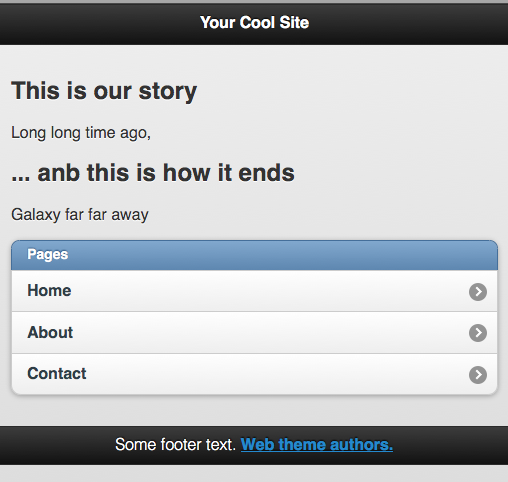
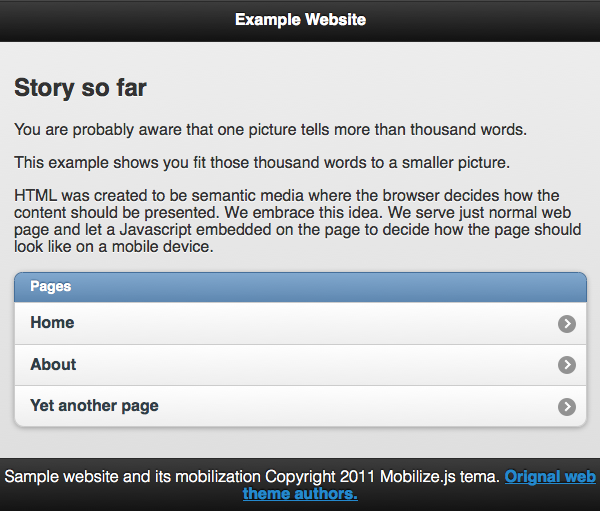
Updating intro and sample integration

Changed region(s): [[0.0, 0.1556, 1.0, 0.8402], [0.0, 0.8714, 1.0, 1.0], [0.0, 0.0, 1.0, 0.0934]]

diff --git a/integrations/example/sample.html b/integrations/example/sample.html
@@ -2,7 +2,7 @@
 <html lang="en">
     <head>
 
-        <title>Example site</title>
+        <title>Example web site</title>
         <link rel="stylesheet" href="styles.css" type="text/css" media="screen" />
     
 	
@@ -25,12 +25,12 @@
 			}            
         </script>
     	
-		<script src="http://localhost:8080/js/mobilize.core.min.js"></script>
+		<script src="http://cdn.mobilizejs.com/releases/0.1/js/mobilize.core.min.js"></script>
 		
         <div id="wrapper">
             <!-- #wrapper -->
             <header>
-                <!-- header --><h1><a href="#">Your Cool Site</a></h1>
+                <!-- header --><h1><a href="#">Example Website </a></h1>
             </header><!-- end of header -->
 
 			<nav>
@@ -47,7 +47,7 @@
 
 
                         <li>
-                            <a href="/contact">Contact</a>
+                            <a href="/contact">Yet another page</a>
                         </li>
 
 
@@ -61,10 +61,18 @@
                 <section id="container">
                     <!-- #container -->
                     <section id="content">
-                            <h2>This is our story</h2>
-							<p>Long long time ago,</p>
-							<h2>... anb this is how it ends</h2>
-							<p>Galaxy far far away</p>							
+                            <h2>Story so far</h2>
+							<p>You are probably aware that one picture tells
+							more than thousand words.</p>
+							<p>This example shows you fit those thousand 
+							words to a smaller picture.</p>		
+							<p>
+								HTML was created to be semantic media where the
+								browser decides how the content should be presented.
+								We embrace this idea. We serve just normal
+								web page and let a Javascript embedded on the page 
+								to decide how the page should look like on a mobile device.			
+							</p>					
                     </section>
                     <!-- end of #content -->
                 </section>
@@ -89,7 +97,8 @@
             <!-- end of #main content and sidebar-->
             <footer>
                 <section id="footer-area">
-                    Some footer text. <a href="http://freehtml5templates.com/">Web theme authors.</a>
+                    Sample website and its mobilization Copyright 2011 Mobilize.js tema. 
+					<a href="http://freehtml5templates.com/">Orignal web theme authors.</a>
                 </section>
                 <!-- end of #footer-area -->
             </footer>

diff --git a/docs/manual/source/introduction.rst b/docs/manual/source/introduction.rst
@@ -4,46 +4,54 @@
 
 .. contents :: :local:
 
-Preface
---------------
+About
+-----
 
-This is an all audience introduction is for mobilize.js.
+Mobilize.js transforms websites
+to mobile sites with Javascript: 
+it is easy to integrate with any system,
+looks good and uses technologies familiar for
+web developers. 
 
-mobilize.js is a modern HTML5 solution to mobilize websites.
-mobilize.js can be used with any web site, as it is complete
-front end solution based on Javascript. In the basic use
-you only need to include one <script> tag on your website
-to mobilize it.
+The revolutionary idea behind Mobilize.js is that
+it pushes difficult content presentation choices to a web browser
+instead trying to figure them out on a server.
+This is embracing of the original philosophy of HTML mark-up language:
+the browser knows best how the page should look like.
+With Mobilize.js we serve a normal web page 
+and let an embedded Javascript file  
+decide should the page be mobilized.
 
-Architecture
--------------
-
-mobilize.js builds on the top of popular jQuery and jQuery Mobile Javascript frameworks.
-In the diagram below the relationship between mobilize.js and the frameworks is explained.
-
-.. image:: images/mobilizejs/Slide1.png
+Mobilize.js will do the same for internet mobilization 
+what Google Maps did for map services.
 
 Benefits
 --------------------------------------------
 
-The revolutionary idea behind mobilize.js is that
-it pushes most of difficult rendering choices to the mobile client itself.
-After all, this is how HTML was designed to be work. Modern phones
-are smart enough to decide how the content to should be displayed the user.
+Modern mobile devices
+are smart enough to decide what is the best way to display
+the content for their users.
 
-This makes mobilize.js simple and easy to integrate to **any** backend.
-It is the most developer friendly mobilization solution out there.
+The client orientation and lack of complex server-side dependencies
+makes Mobilize.js simple and easy to integrate to **any** web system.
+You need only to add one <script> tag; it works even on static HTML files.
+You deploy it easily and tap the potential of quickly growing mobile internet.
+Mobilize.js won't stop you updating your server.
 
-You do not need to install any difficult components or libraries on
-server side. mobilize.js is written in Javascript and jQuery - both
-which are ubiquoes technologies in HTML5 era and familiar to every 
-front end developer.
+Mobilize.js is written in Javascript and jQuery - both
+which are ubiquitous technologies for HTML5 developers. 
+Mobilize.js is the most developer friendly 
+mobilization solution out there. You learn it easily, 
+getting more done in less time.
 
 How it works
 --------------
 
 mobilize.js <script> tags are inserted on your HTML source code
-like with any other Javascript library. 
+like with any other Javascript library. Then you give what web 
+site elements belong to mobile site.
+
+.. image:: images/screenshots/transform.png
 
 When the web page loads, mobilize.js checks whether the browser
 is a mobile browser or a normal desktop browser. For mobile
@@ -56,6 +64,15 @@ browsers, a special transformation step takes place.
 * Content is reformated for mobile display
 
 * jQuery Mobile theme is applied on the page
+
+Architecture
+-------------
+
+mobilize.js builds on the top HTML5 and popular jQuery and jQuery Mobile Javascript frameworks.
+In the diagram below the relationship between mobilize.js and the frameworks is explained.
+
+.. image:: images/mobilizejs/Slide1.png
+
 
 Easy to integrate
 --------------------

diff --git a/docs/manual/source/integrations/apache.rst b/docs/manual/source/integrations/apache.rst
@@ -68,6 +68,12 @@ query parameters in Apache configuration file::
     RewriteEngine On
     RewriteCond %{QUERY_STRING} mobilize-test-wordpress
     RewriteRule .* - [E=xslt-theming:0]
+    
+    # Do not touch RSS feeds.
+    # XXX: What is this magical THE_REQUEST variable?? REQUEST_URI and QUERY_STRING didn't work
+    RewriteCond %{THE_REQUEST} (feed)
+    RewriteRule .* - [E=xslt-theming:0]
+    
 
 
 Then you can use these variables, for example, in
